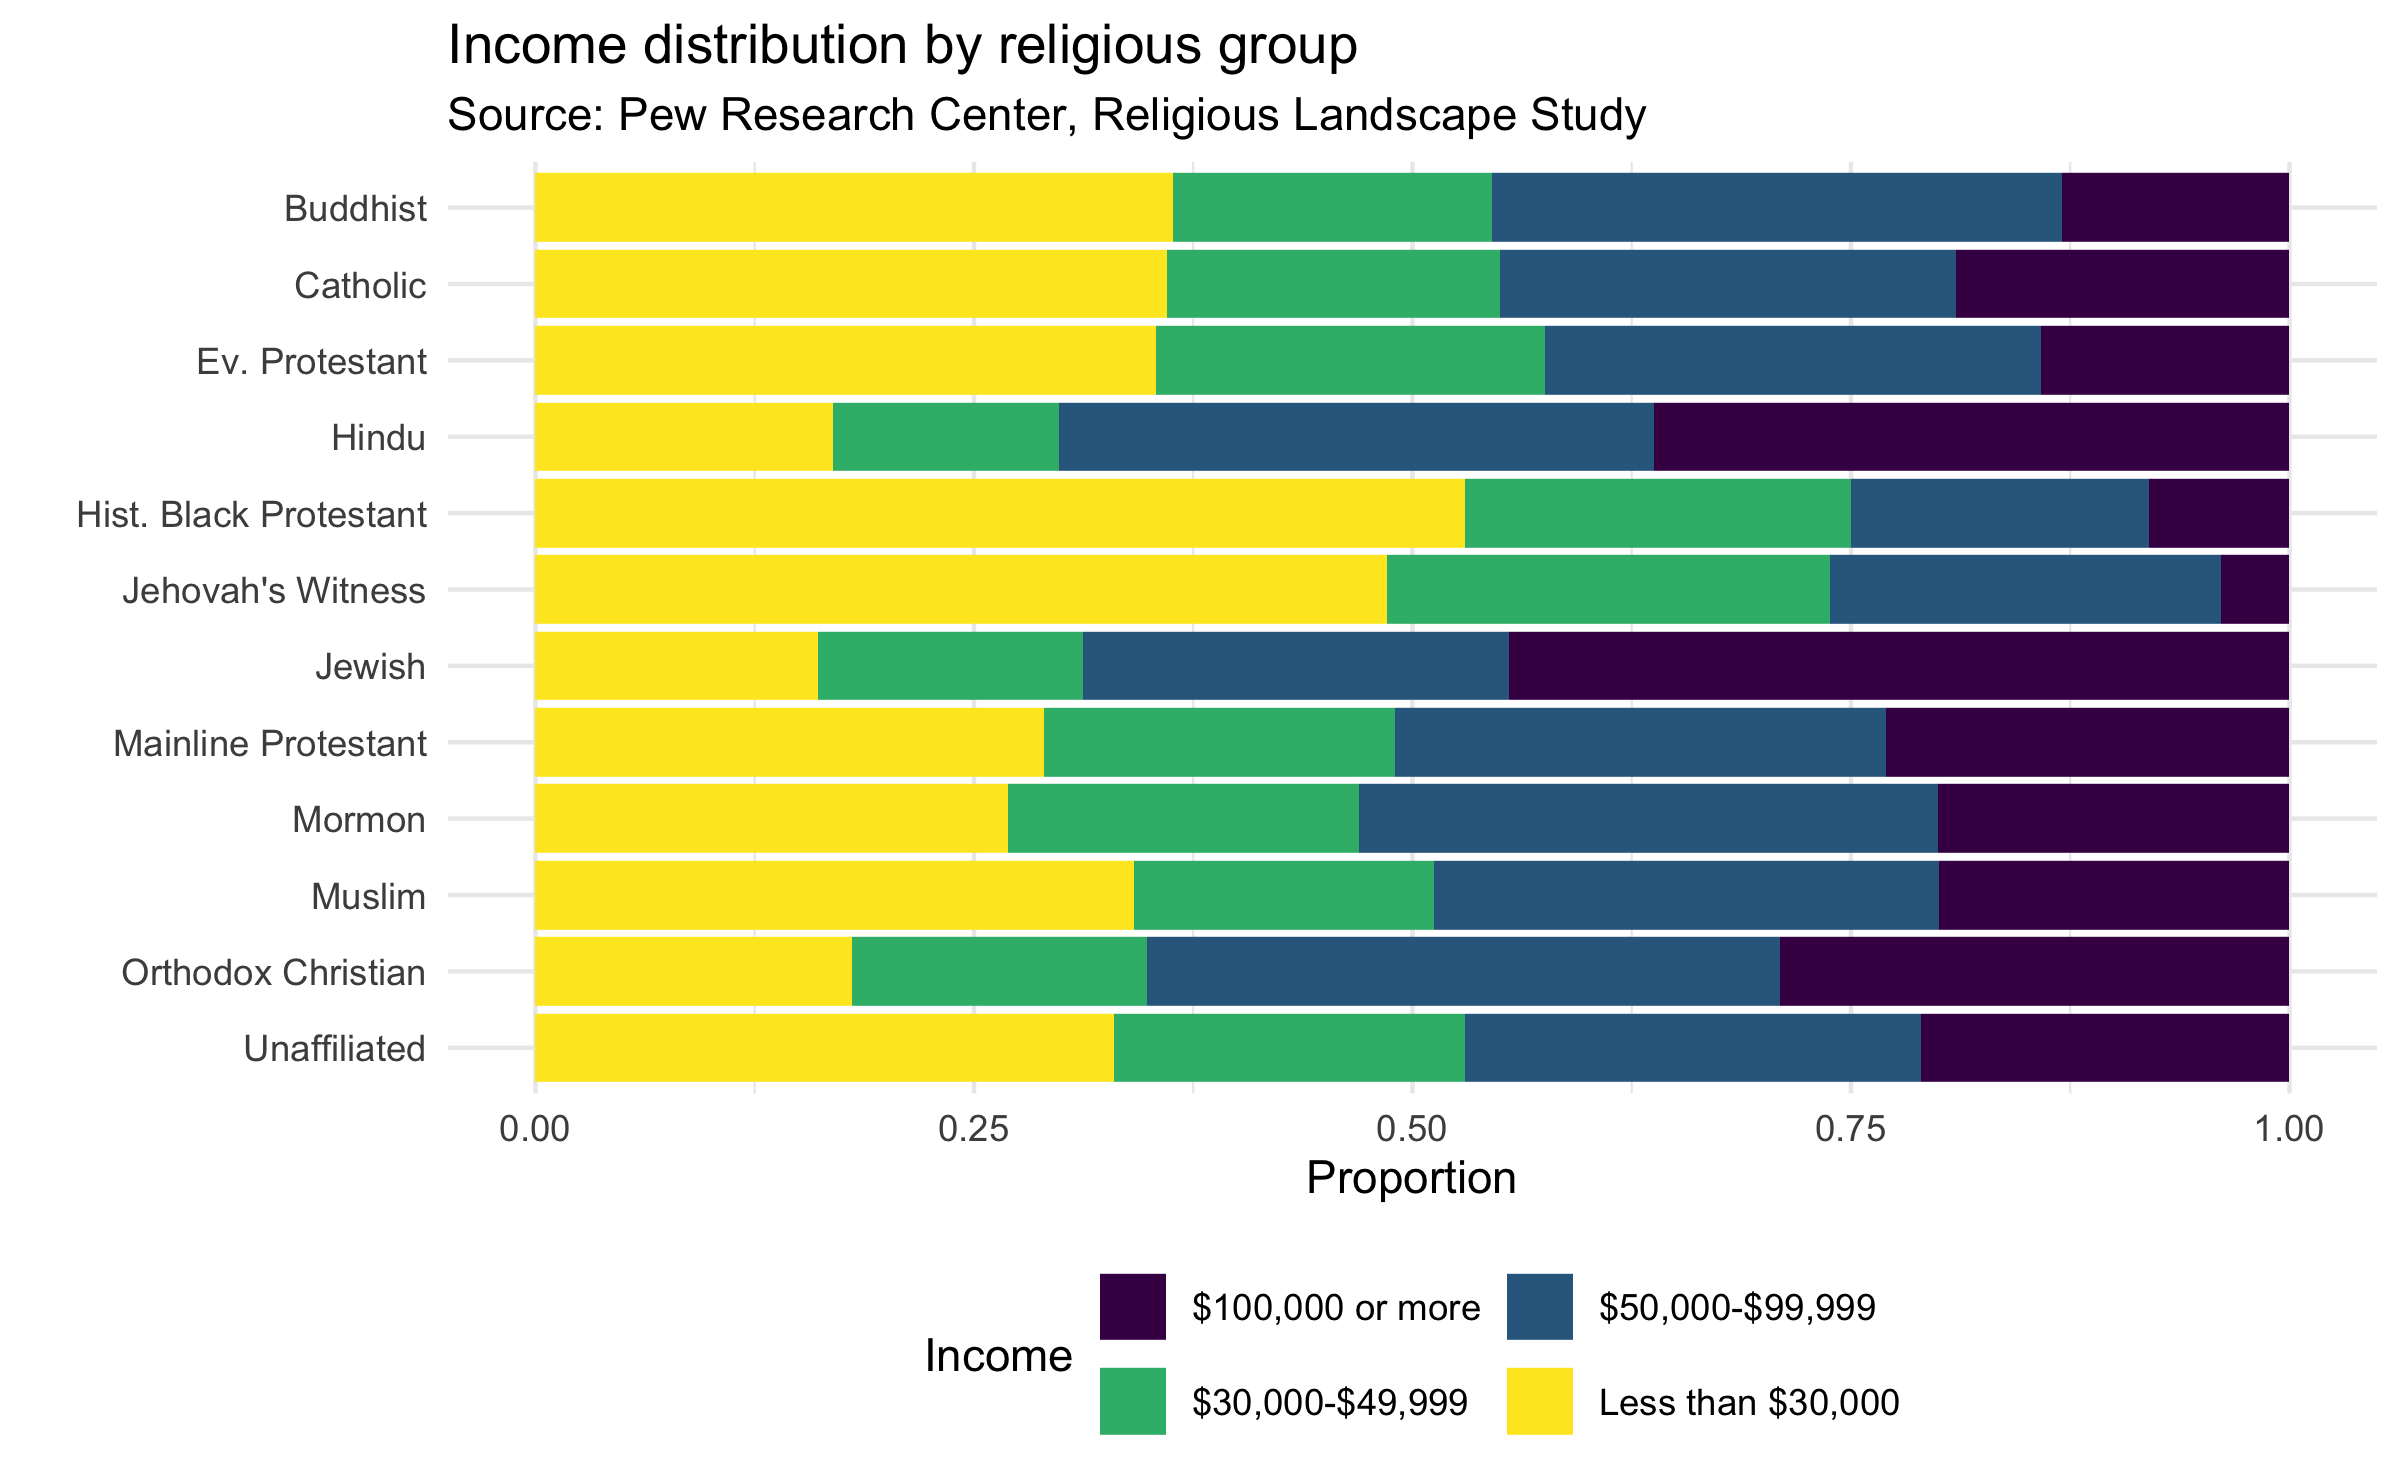
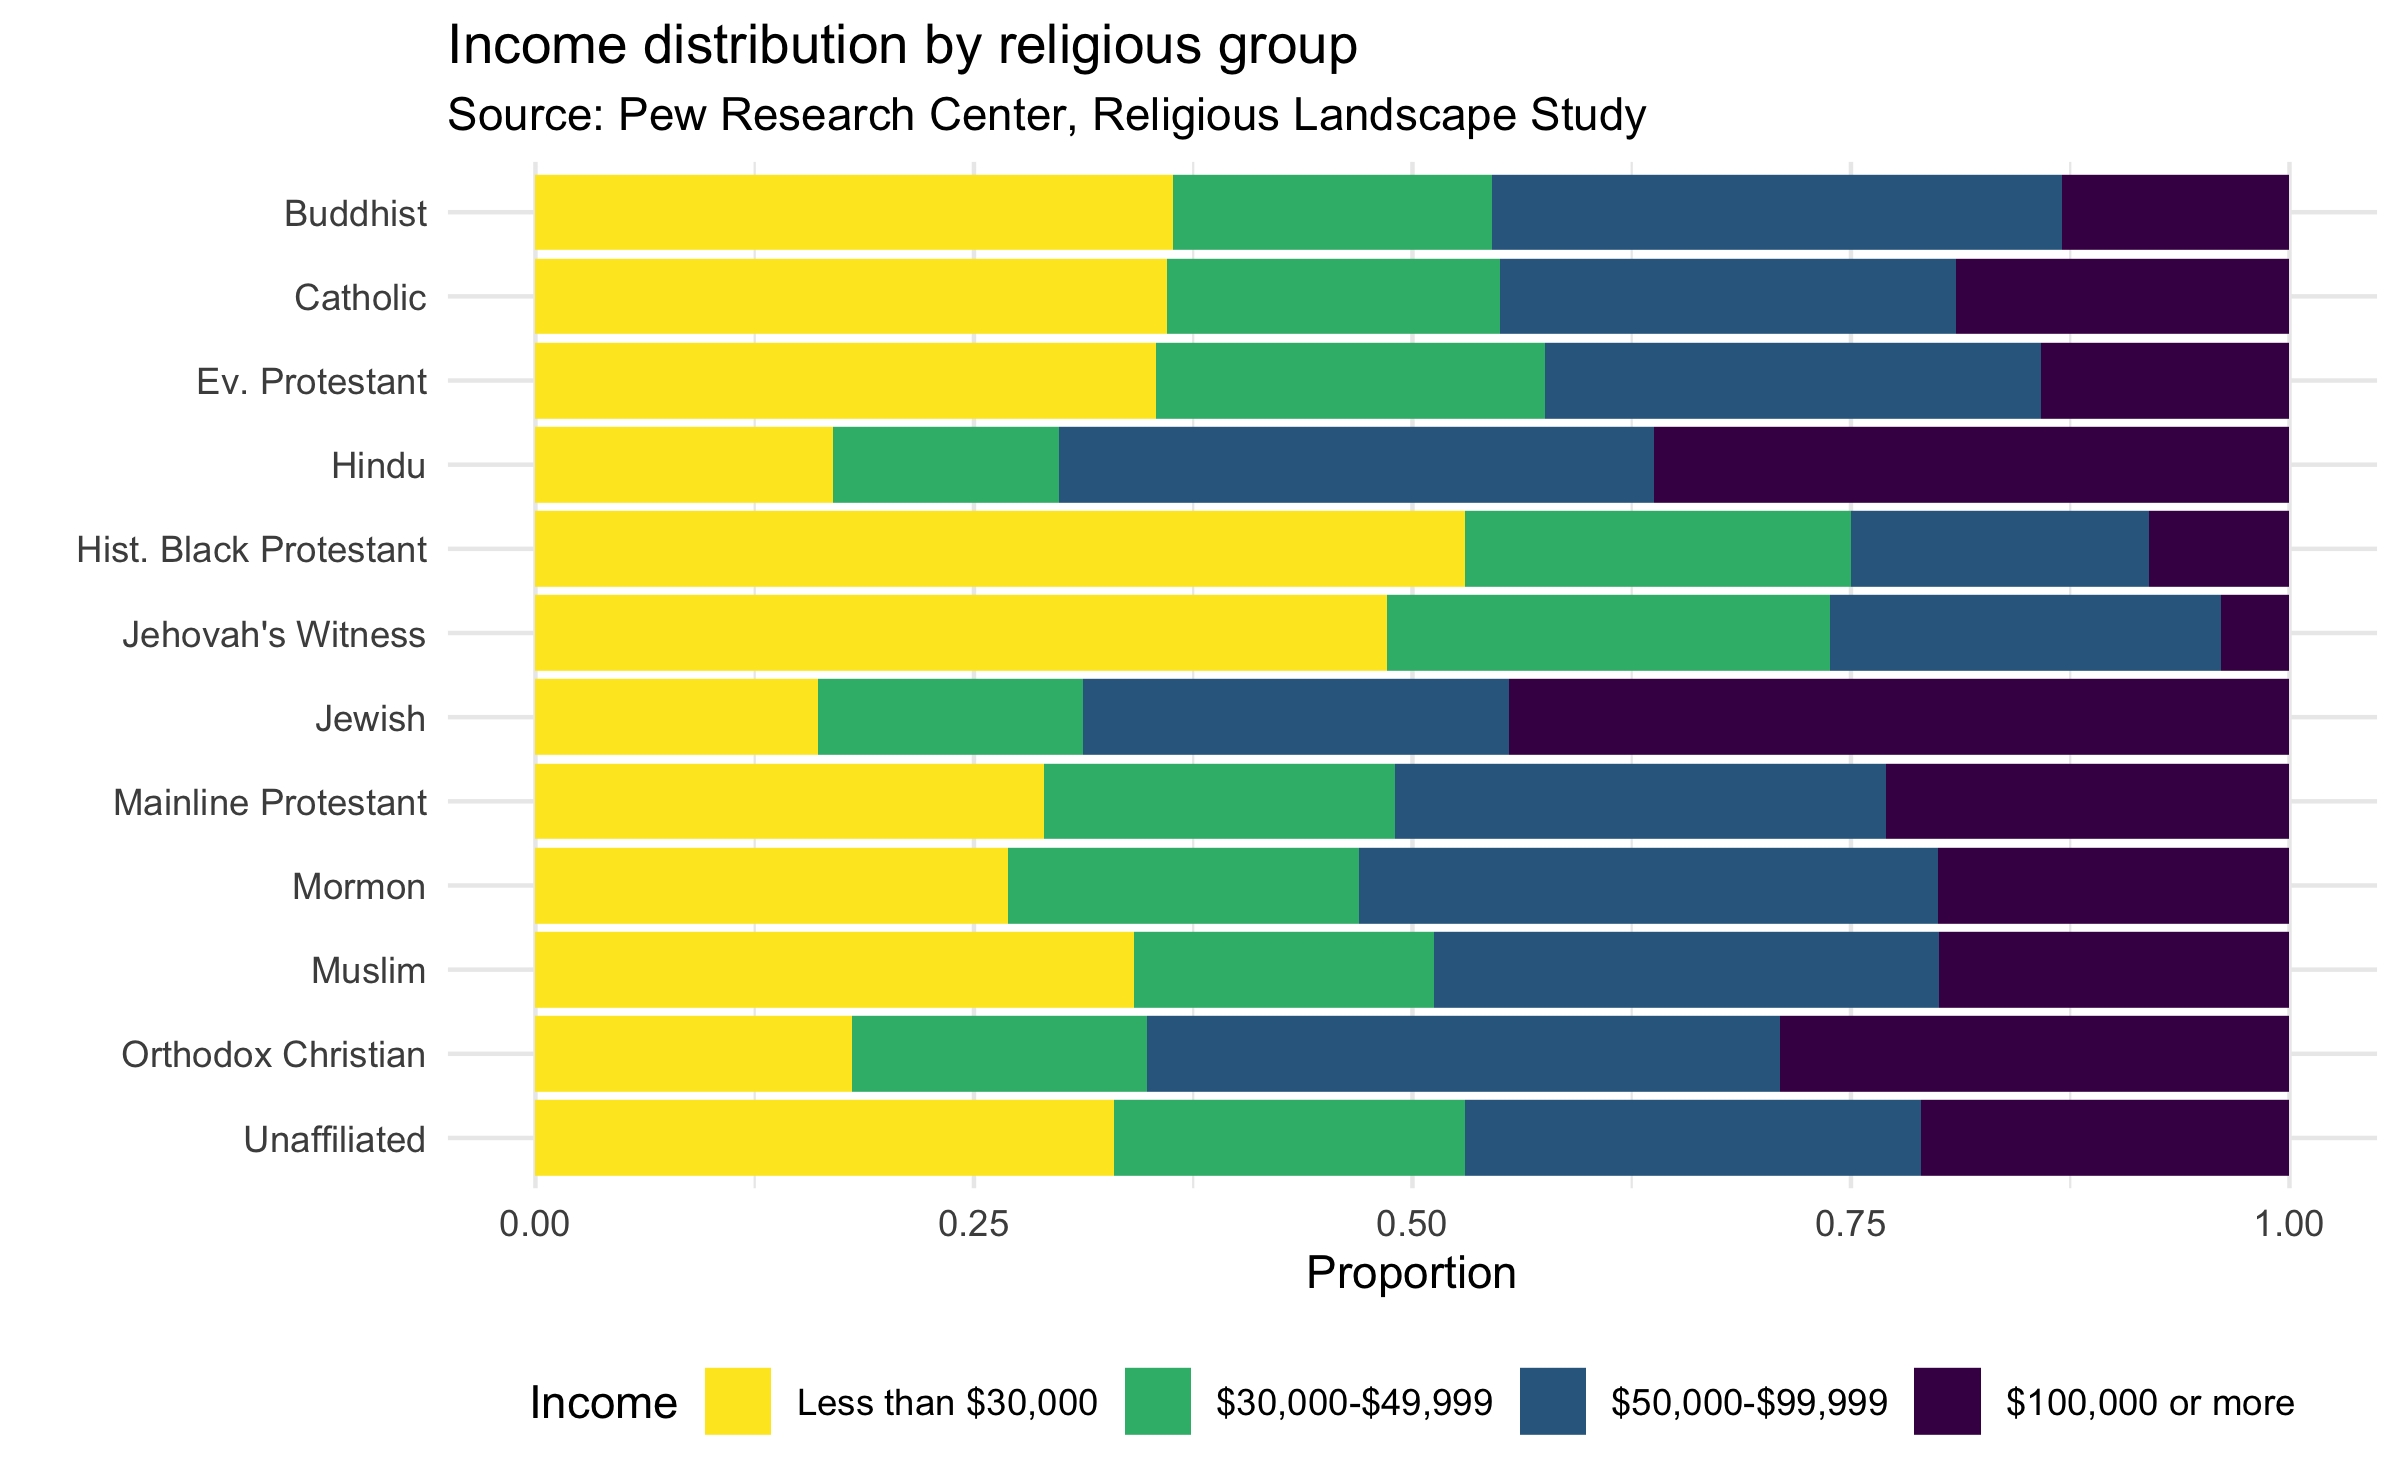
w6 slides

diff --git a/slides/11-data-cleaning-in-class.html b/slides/11-data-cleaning-in-class.html
@@ -465,7 +465,7 @@ ggplot(rel_inc_long, aes(y = religion, x = frequency, fill = fct_rev(income))) +
   scale_fill_viridis_d() +
   theme_minimal() +
   theme(legend.position = "bottom") +
-  guides(fill = guide_legend(nrow = 2, byrow = TRUE)) 
+  guides(fill = guide_legend(reverse = TRUE))
 ```
 ]
 
@@ -489,7 +489,7 @@ ggplot(rel_inc_long, aes(y = religion, x = frequency, fill = fct_rev(income))) +
   scale_fill_viridis_d() +
   theme_minimal() +
   theme(legend.position = "bottom") +
-  guides(fill = guide_legend(nrow = 2, byrow = TRUE)) +
+  guides(fill = guide_legend(reverse = TRUE)) +
   labs(
     x = "Proportion", y = "", 
     title = "Income distribution by religious group", 
